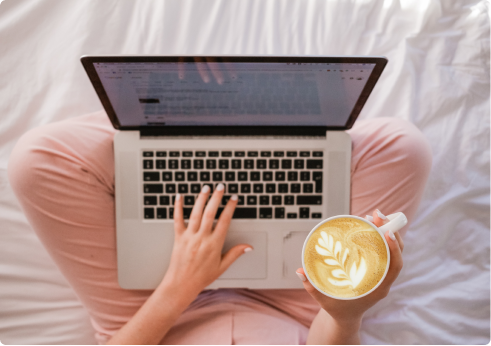
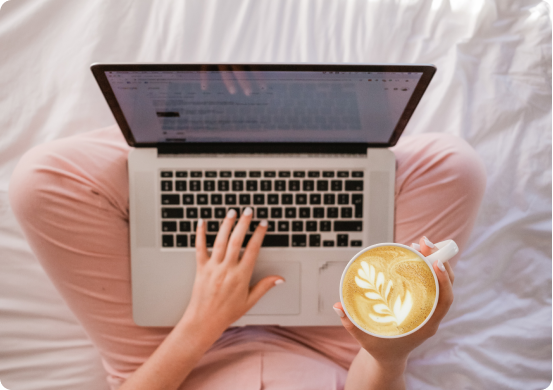
style:home page change img size and change svg

diff --git a/src/pages/home/pomodoroDescription.tsx b/src/pages/home/pomodoroDescription.tsx
@@ -1,6 +1,7 @@
 import Image from 'next/image'
 import homeStyles from './home.module.scss'
 import styles from './pomodoroDescription.module.scss'
+import IconDoubleComma from '@/assets/icons/icon_double_comma.svg'
 
 export default function PomodoroDescription() {
   return (
@@ -13,19 +14,15 @@ export default function PomodoroDescription() {
           <div className={styles.content}>
             <div className={styles.img_box}>
               <span></span>
-              <Image src={'/images/home-pomodoro.jpg'} alt="home-pomodoro" width={700} height={700} />
+              <Image src={'/images/home-pomodoro.png'} alt="home-pomodoro" width={700} height={700} />
             </div>
             <div className={styles.panel}>
               <div className={styles.describe}>
                 <p>我們的產品將這兩個功能完美地融合在一起,讓您在組織和追踪任務時,同時保持專注和高效。</p>
                 <p className="sm:mt-6 mt-5">不僅如此,我們還加入了成員即時通訊功能,讓團隊協作變得更為流暢！</p>
-                <Image
-                  className={styles.icon}
-                  src={'/images/home-quotation-mark.svg'}
-                  alt="quotation-mark"
-                  width={185.78}
-                  height={155.17}
-                />
+                <div className={styles.quotation_mark_box}>
+                  <IconDoubleComma />
+                </div>
               </div>
             </div>
           </div>

diff --git a/src/pages/home/productDescription.tsx b/src/pages/home/productDescription.tsx
@@ -26,13 +26,13 @@ export default function ProductDescription() {
     //   describe:
     //     '通過即時聊天不用再另外使用其它通訊軟體，加速團隊溝通。你也可以標記個人，為行動項目分配評論，並鏈結任務以共同完成更多工作。',
     // },
-    // {
-    //   title: '專注',
-    //   decorativeTitle: '計時',
-    //   img: 'home-timing',
-    //   describe:
-    //     '通過即時聊天不用再另外使用其它通訊軟體，加速團隊溝通。你也可以標記個人，為行動項目分配評論，並鏈結任務以共同完成更多工作。',
-    // },
+    {
+      title: '專注',
+      decorativeTitle: '計時',
+      img: 'home-timing',
+      describe:
+        '通過即時聊天不用再另外使用其它通訊軟體，加速團隊溝通。你也可以標記個人，為行動項目分配評論，並鏈結任務以共同完成更多工作。',
+    },
   ])
   return (
     <>

diff --git a/src/pages/home/pomodoroDescription.module.scss b/src/pages/home/pomodoroDescription.module.scss
@@ -1,12 +1,15 @@
 .section {
   background: linear-gradient(143.71deg, #ff6848 21.23%, #ffbbbb 78.89%);
   position: relative;
-  .icon {
+  .quotation_mark_box {
+    @apply text-primary;
     position: absolute;
     top: 40%;
     right: 10%;
     opacity: 0.4;
     z-index: 1;
+    width: 185.78px;
+    height: 155.17px;
   }
 }
 .container {
@@ -99,7 +102,7 @@
     text-align: justify;
     z-index: 2;
   }
-  .icon {
+  .quotation_mark_box {
     position: absolute;
     top: 10%;
     right: -5%;
@@ -132,9 +135,11 @@
         margin-top: 20px;
       }
     }
-    .icon {
+    .quotation_mark_box {
       width: 25%;
       top: -5%;
+      width: 111.47px;
+      height: 93.1px;
     }
   }
 

diff --git a/src/pages/home/userRecommend.module.scss b/src/pages/home/userRecommend.module.scss
@@ -26,6 +26,7 @@
     height: 72px;
     object-fit: cover;
     border-radius: 50%;
+    object-position: 50% 30%;
   }
 }
 
@@ -62,8 +63,11 @@
   padding-top: 44px;
   margin-bottom: 24px;
   .quotation_mark_box {
+    @apply text-secondary-2;
     position: absolute;
     top: 0;
+    width: 37.16px;
+    height: 31.03px;
   }
 }
 .stars {
@@ -89,10 +93,8 @@
   .content {
     padding-top: 25px;
     .quotation_mark_box {
-      svg {
-        width: 22.29px;
-        height: 18.62px;
-      }
+      width: 22.29px;
+      height: 18.62px;
     }
   }
   .personal_box {

diff --git a/src/styles/primeCustom.scss b/src/styles/primeCustom.scss
@@ -114,6 +114,6 @@
 @media (max-width: 640px) {
   .p-button {
     font-size: 14px;
-    padding: 10px 20px;
+    padding: 10px;
   }
 }
